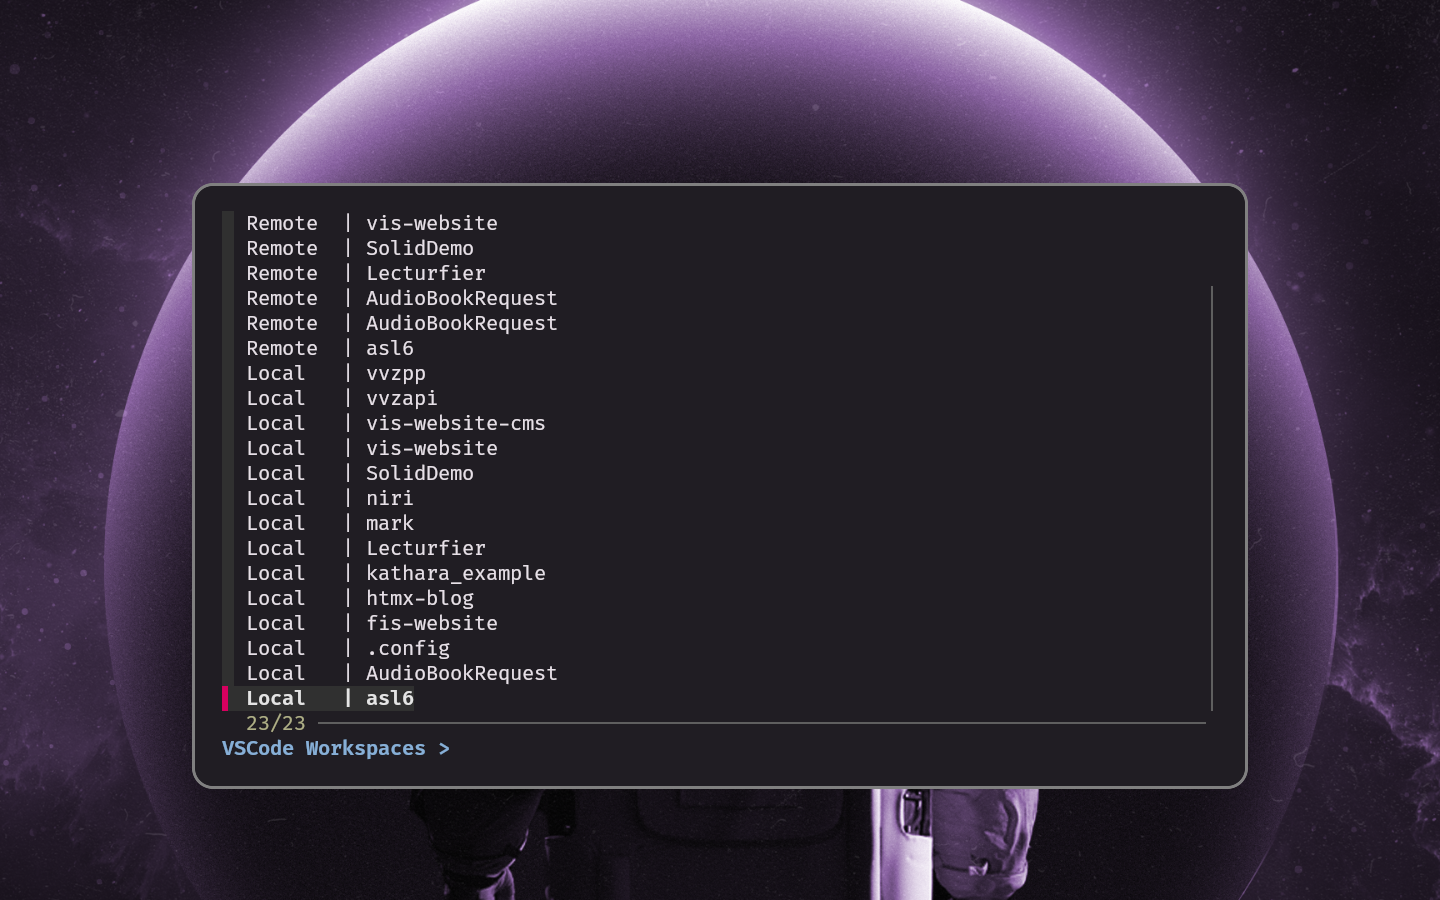
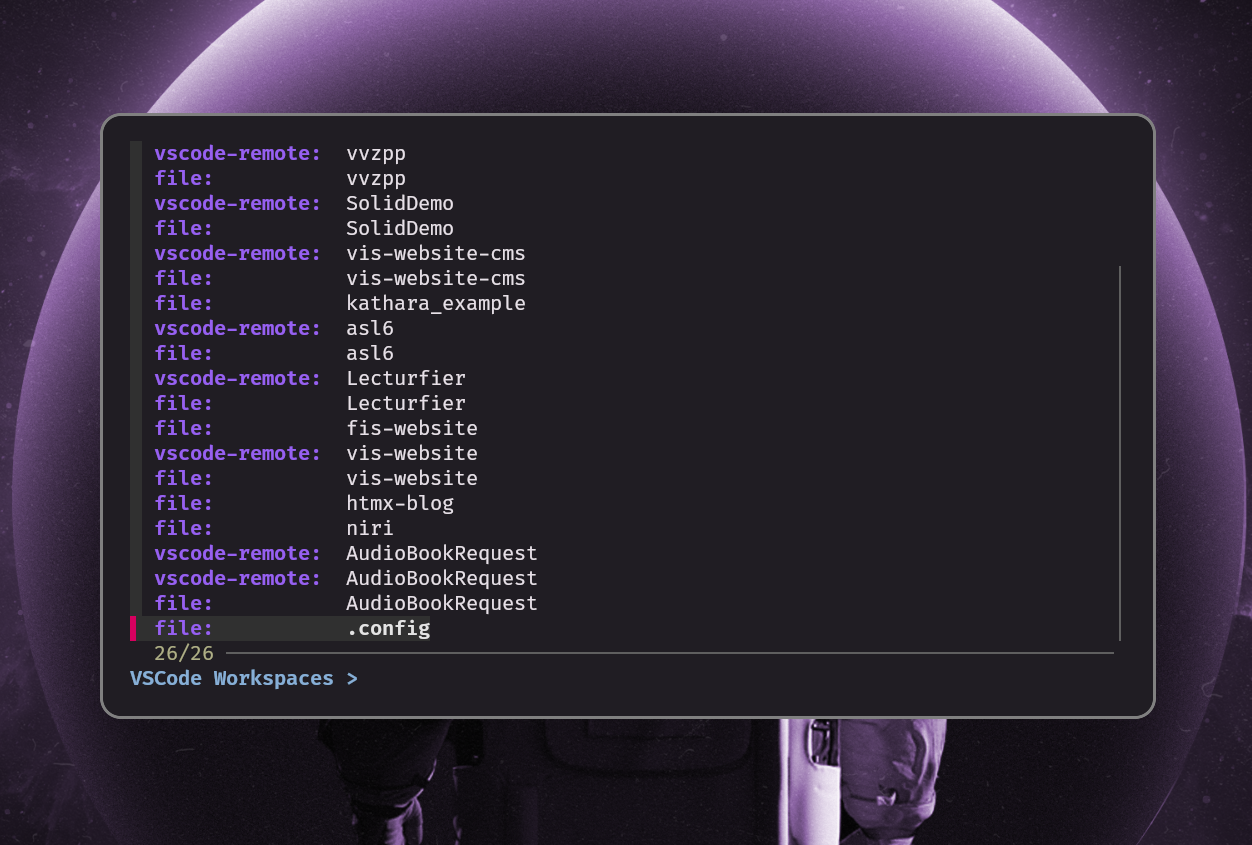
remove vibe coded slop function

diff --git a/content/posts/popup-tools.md b/content/posts/popup-tools.md
@@ -92,56 +92,32 @@ find ~/.config/Code/User/workspaceStorage -type f \
 	-exec jq -r .folder {} +
 ```
 
-Then using a vibe coded fish function, the base directory is extracted and shown in the fzf menu:
+Then using a fish function, the base directory is extracted and shown in the fzf menu:
 
 ```fish
 # .config/fish/functions/vscode_recent.fish
-function vscode_recent --description "Open recent VSCode workspaces"
+function vscode_recent --description "Open recent VSCode workspace via fzf"
     #!/usr/bin/env fish
 
-    # Collect all workspace folder URIs
-    set entries (find ~/.config/Code/User/workspaceStorage -type f -name "workspace.json" -exec jq -r '.folder' {} + | sort -u)
+    # 1. Finds all workspace files
+    # 2. Turn slashes into tabs (for better formatting in fzf)
+    # 3. Add spaces to 'file:' to align results with 'vscode-remote:'
+    # 4. Add color to remote/file type
+    # 5. Show with fzf (only show uri type + basedir)
+    # 6. Remove spaces
+    # 7. Turn tabs back into slashes
+    find .config/Code/User/workspaceStorage -type f -name "workspace.json" \
+        -exec jq -r .folder {} + \
+        | sed 's/\//\t/g' \
+        | sed 's/file:/file:         /g' \
+        | sed -E 's/(.+:)/\x1b[1;34m\1\x1b[0m/g' \
+        | fzf --ansi --delimiter=\t --with-nth=1,-1 --prompt="VSCode Workspaces > " \
+        | sed 's/ //g' \
+        | sed 's/\t/\//g' \
+        | read -l uri
 
-    if test (count $entries) -eq 0
-        echo "No VSCode workspaces found."
-        exit 1
-    end
-
-    # Lists
-    set basenames
-    set uris
-    set display_list
-    set seen_hashes
-
-    for uri in $entries
-        set uri (string trim -r -c '/' $uri)
-        set base (basename $uri)
-
-        # Identify whether this is Remote or Local
-        if string match -q "vscode-remote://*" $uri
-            set label 'Remote '
-        else if string match -q "file://*" $uri
-            set label 'Local  '
-        else
-            set label Unknown
-        end
-
-        set basenames $basenames $base
-        set uris $uris $uri
-        set display_list $display_list "$label | $base"
-    end
-
-    # Adds the fzf popup/selection
-    set selected (printf '%s\n' $display_list | sort | fzf --prompt="VSCode Workspaces > ")
-
-    if test -n "$selected"
-        set chosen_base (string split -f2 '|' $selected | string trim)
-        for i in (seq (count $basenames))
-            if test $basenames[$i] = $chosen_base
-                code --folder-uri $uris[$i]
-                break
-            end
-        end
+    if test -n "$uri"
+        code --folder-uri $uri
     end
 end
 ```
